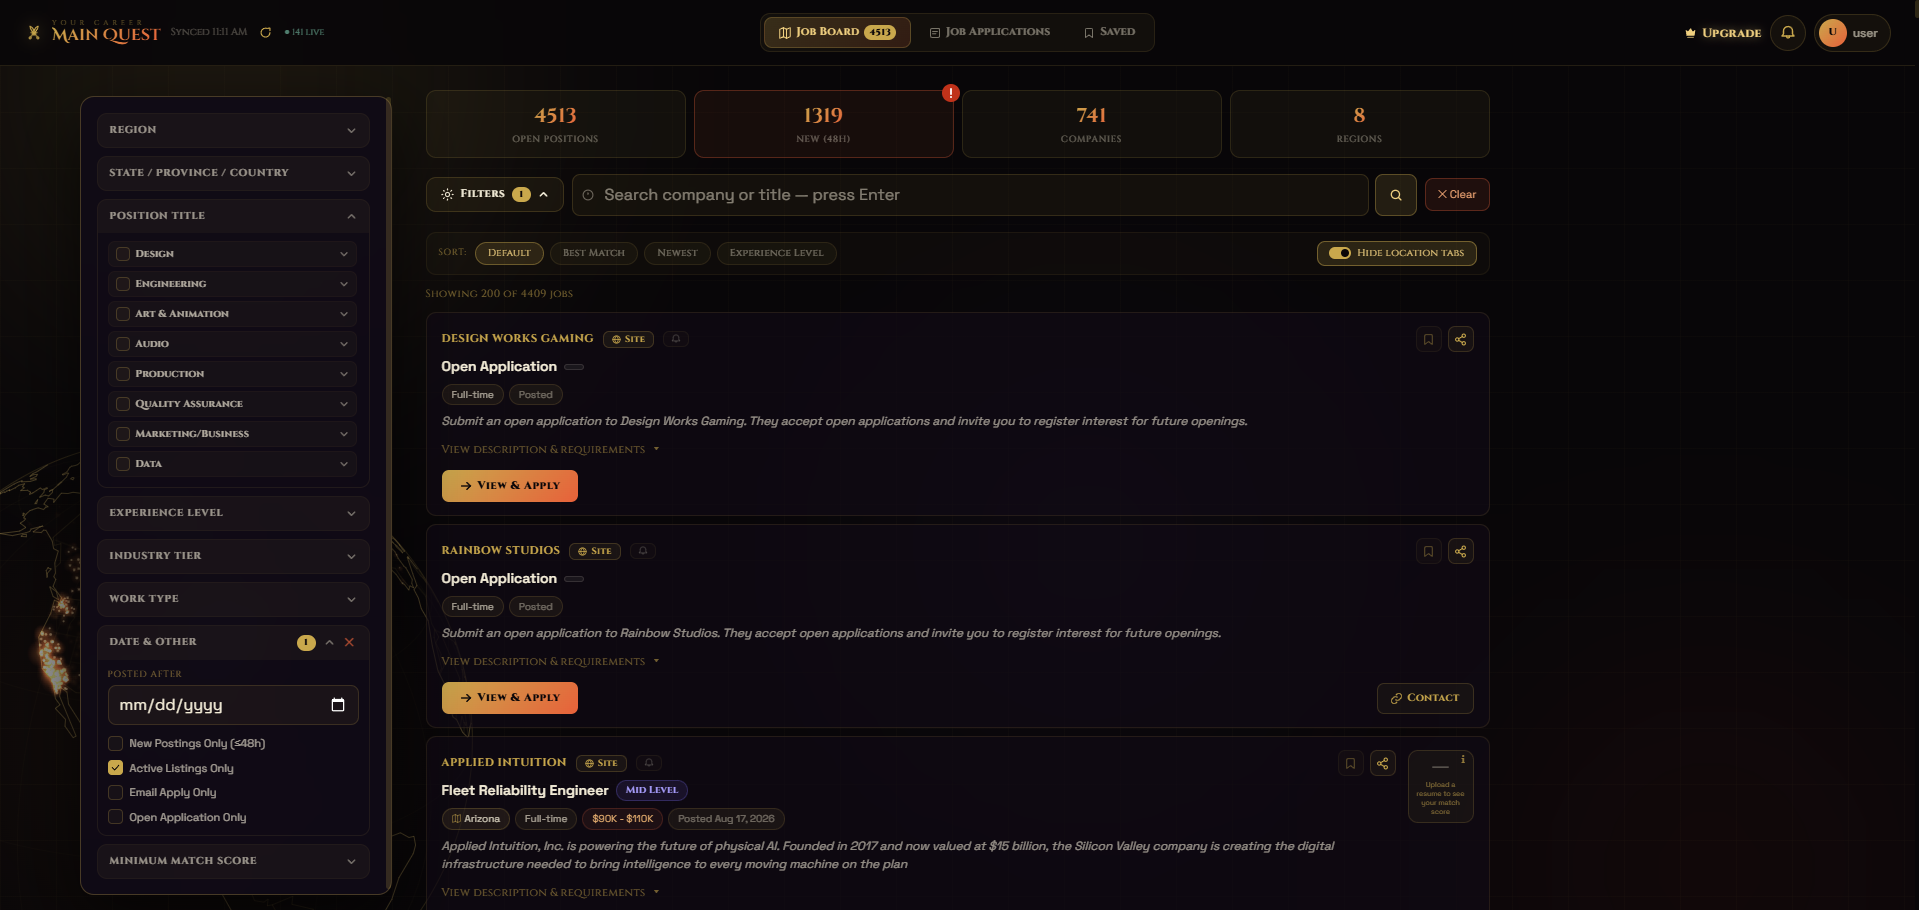
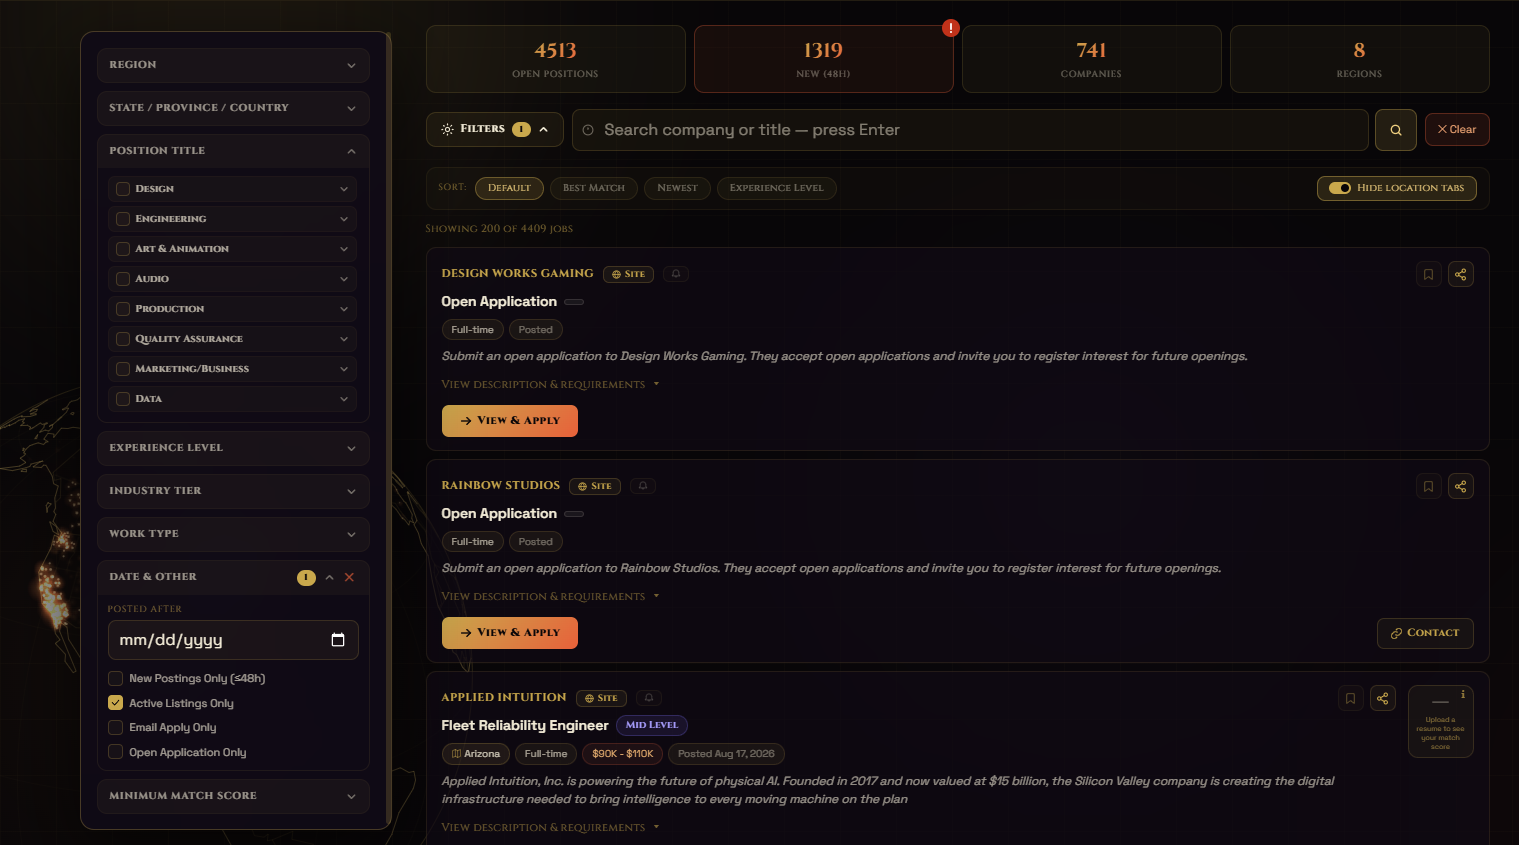
Showcase: centerline divider layout, click-to-zoom lightbox, new subfeatures + descriptions

diff --git a/pages/index.js b/pages/index.js
@@ -2665,47 +2665,54 @@ function PricingInfo({compact,onDismiss}){
 
 // ── AUTH ──────────────────────────────────────────────────────────────────────
 // ── LANDING FEATURE SHOWCASE ─────
-// Fading screenshot carousel: auto-advances, manual arrows, dot indicators,
-// and jumps to a subfeature’s image when you hover its card.
 function ShotCarousel({ shots, forcedIdx, sectionTitle }){
   const [idx,setIdx]=useState(0);
   const [paused,setPaused]=useState(false);
+  const [zoom,setZoom]=useState(false);
   const has=shots&&shots.length>0;
   useEffect(()=>{
-    if(!has||paused||shots.length<2) return;
+    if(!has||paused||zoom||shots.length<2) return;
     const tmr=setInterval(()=>setIdx(i=>(i+1)%shots.length),4500);
     return ()=>clearInterval(tmr);
-  },[has,paused,shots]);
+  },[has,paused,zoom,shots]);
   useEffect(()=>{ if(forcedIdx!=null&&forcedIdx>=0) setIdx(forcedIdx); },[forcedIdx]);
+  useEffect(()=>{ if(typeof document==="undefined")return; if(zoom){ const pv=document.body.style.overflow; document.body.style.overflow="hidden"; return ()=>{document.body.style.overflow=pv;}; } },[zoom]);
+  const go=(d)=>setIdx(i=>(i+d+shots.length)%shots.length);
   if(!has){
     return <div style={{width:"100%",height:"100%",minHeight:320,borderRadius:14,border:"1px dashed rgba(201,168,76,.35)",background:"rgba(201,168,76,.03)",display:"flex",alignItems:"center",justifyContent:"center",flexDirection:"column",gap:8}}>
       <span style={{fontFamily:"'Cinzel',serif",fontSize:13,color:"rgba(201,168,76,.6)"}}>Screenshot</span>
       <span style={{fontSize:11,color:"rgba(244,237,216,.3)"}}>{sectionTitle}</span>
     </div>;
   }
-  const go=(d)=>setIdx(i=>(i+d+shots.length)%shots.length);
-  return <div onMouseEnter={()=>setPaused(true)} onMouseLeave={()=>setPaused(false)} style={{position:"relative",width:"100%",height:"100%",minHeight:320,borderRadius:14,overflow:"hidden",border:"1px solid rgba(201,168,76,.25)",background:"#0a0710",boxShadow:"0 16px 50px rgba(0,0,0,.45)"}}>
+  const dot=(k,fixed)=>(<span key={k} onClick={e=>{e.stopPropagation();setIdx(k);}} style={{width:8,height:8,borderRadius:"50%",background:k===idx?"#f0d080":"rgba(244,237,216,.35)",cursor:"pointer",transition:"background .3s"}}/>);
+  const arrowStyle=(side)=>({position:"absolute",[side]:8,top:"50%",transform:"translateY(-50%)",zIndex:3,width:34,height:34,borderRadius:"50%",background:"rgba(10,7,8,.4)",border:"1px solid rgba(201,168,76,.3)",color:"#f0d080",fontSize:20,lineHeight:1,cursor:"pointer",display:"flex",alignItems:"center",justifyContent:"center",backdropFilter:"blur(3px)"});
+  return <><div onMouseEnter={()=>setPaused(true)} onMouseLeave={()=>setPaused(false)} onClick={()=>setZoom(true)} style={{position:"relative",width:"100%",height:"100%",minHeight:320,borderRadius:14,overflow:"hidden",border:"1px solid rgba(201,168,76,.25)",background:"#0a0710",boxShadow:"0 16px 50px rgba(0,0,0,.45)",cursor:"zoom-in"}}>
     <div style={{position:"absolute",inset:0,display:"flex",alignItems:"center",justifyContent:"center",zIndex:0}}><span style={{fontFamily:"'Cinzel',serif",fontSize:12,color:"rgba(201,168,76,.35)"}}>{sectionTitle} · {idx+1}</span></div>
-    {shots.map((src,k)=>(
-      <img key={k} src={src} alt="" onError={e=>{e.currentTarget.style.opacity=0;}} style={{position:"absolute",inset:0,width:"100%",height:"100%",objectFit:"cover",opacity:k===idx?1:0,transition:"opacity .7s ease",zIndex:1}}/>
-    ))}
+    {shots.map((src,k)=>(<img key={k} src={src} alt="" onError={e=>{e.currentTarget.style.opacity=0;}} style={{position:"absolute",inset:0,width:"100%",height:"100%",objectFit:"cover",opacity:k===idx?1:0,transition:"opacity .7s ease",zIndex:1}}/>))}
     {shots.length>1&&<>
-      <button onClick={()=>go(-1)} aria-label="Previous" style={{position:"absolute",left:8,top:"50%",transform:"translateY(-50%)",zIndex:3,width:34,height:34,borderRadius:"50%",background:"rgba(10,7,8,.4)",border:"1px solid rgba(201,168,76,.3)",color:"#f0d080",fontSize:20,lineHeight:1,cursor:"pointer",display:"flex",alignItems:"center",justifyContent:"center",backdropFilter:"blur(3px)"}}>‹</button>
-      <button onClick={()=>go(1)} aria-label="Next" style={{position:"absolute",right:8,top:"50%",transform:"translateY(-50%)",zIndex:3,width:34,height:34,borderRadius:"50%",background:"rgba(10,7,8,.4)",border:"1px solid rgba(201,168,76,.3)",color:"#f0d080",fontSize:20,lineHeight:1,cursor:"pointer",display:"flex",alignItems:"center",justifyContent:"center",backdropFilter:"blur(3px)"}}>›</button>
-      <div style={{position:"absolute",bottom:10,left:0,right:0,display:"flex",justifyContent:"center",gap:7,zIndex:3}}>
-        {shots.map((_,k)=>(<span key={k} onClick={()=>setIdx(k)} style={{width:7,height:7,borderRadius:"50%",background:k===idx?"#f0d080":"rgba(244,237,216,.35)",cursor:"pointer",transition:"background .3s"}}/>))}
-      </div>
+      <button onClick={e=>{e.stopPropagation();go(-1);}} aria-label="Previous" style={arrowStyle("left")}>‹</button>
+      <button onClick={e=>{e.stopPropagation();go(1);}} aria-label="Next" style={arrowStyle("right")}>›</button>
+      <div style={{position:"absolute",bottom:10,left:0,right:0,display:"flex",justifyContent:"center",gap:7,zIndex:3}}>{shots.map((_,k)=>dot(k))}</div>
     </>}
-  </div>;
+  </div>
+  {zoom&&<div onClick={()=>setZoom(false)} style={{position:"fixed",inset:0,zIndex:500,background:"rgba(0,0,0,.92)",backdropFilter:"blur(4px)",display:"flex",alignItems:"center",justifyContent:"center"}}>
+    <img src={shots[idx]} alt="" onClick={e=>e.stopPropagation()} style={{maxWidth:"92vw",maxHeight:"86vh",objectFit:"contain",borderRadius:8,boxShadow:"0 20px 80px rgba(0,0,0,.7)"}}/>
+    <button onClick={()=>setZoom(false)} title="Close" style={{position:"fixed",top:18,right:22,zIndex:3,width:40,height:40,borderRadius:"50%",background:"rgba(20,14,10,.7)",border:"1px solid rgba(201,168,76,.4)",color:"#f0d080",fontSize:18,cursor:"pointer",display:"flex",alignItems:"center",justifyContent:"center"}}>✕</button>
+    {shots.length>1&&<>
+      <button onClick={e=>{e.stopPropagation();go(-1);}} style={{position:"fixed",left:18,top:"50%",transform:"translateY(-50%)",zIndex:3,width:46,height:46,borderRadius:"50%",background:"rgba(20,14,10,.7)",border:"1px solid rgba(201,168,76,.4)",color:"#f0d080",fontSize:26,cursor:"pointer",display:"flex",alignItems:"center",justifyContent:"center"}}>‹</button>
+      <button onClick={e=>{e.stopPropagation();go(1);}} style={{position:"fixed",right:18,top:"50%",transform:"translateY(-50%)",zIndex:3,width:46,height:46,borderRadius:"50%",background:"rgba(20,14,10,.7)",border:"1px solid rgba(201,168,76,.4)",color:"#f0d080",fontSize:26,cursor:"pointer",display:"flex",alignItems:"center",justifyContent:"center"}}>›</button>
+      <div style={{position:"fixed",bottom:22,left:0,right:0,display:"flex",justifyContent:"center",gap:8,zIndex:3}} onClick={e=>e.stopPropagation()}>{shots.map((_,k)=>dot(k,true))}</div>
+    </>}
+  </div>}
+  </>;
 }
 
-function ShowcaseSection({ s, i, reverse, c0, c1 }){
+function ShowcaseSection({ s, i, c0, c1 }){
   const [forced,setForced]=useState(null);
   return <section id={`feat-${s.slug}`} className="mq-feat-sec" style={{position:"relative",minHeight:"100vh",display:"flex",alignItems:"center",justifyContent:"center",padding:"64px 24px",background:`linear-gradient(180deg, ${c0}, ${c1})`,boxSizing:"border-box",fontFamily:"'Space Grotesk',sans-serif"}}>
     <div style={{position:"absolute",inset:0,backgroundImage:"linear-gradient(rgba(201,168,76,.03) 1px,transparent 1px),linear-gradient(90deg,rgba(201,168,76,.03) 1px,transparent 1px)",backgroundSize:"56px 56px",pointerEvents:"none",zIndex:0}}/>
-    {i>0 && <div style={{position:"absolute",top:0,left:"50%",transform:"translate(-50%,-50%)",display:"flex",flexDirection:"column",alignItems:"center",pointerEvents:"none",zIndex:2}}><div style={{width:1,height:48,background:"linear-gradient(to bottom, transparent, rgba(201,168,76,.55))"}}/><span style={{color:"#c9a84c",fontSize:15,lineHeight:1,margin:"5px 0",textShadow:"0 0 8px rgba(201,168,76,.6)"}}>✦</span><div style={{width:1,height:48,background:"linear-gradient(to bottom, rgba(201,168,76,.55), transparent)"}}/></div>}
-    <div style={{maxWidth:1440,width:"100%",display:"flex",flexDirection:reverse?"row-reverse":"row",gap:40,alignItems:"stretch",flexWrap:"wrap",position:"relative",zIndex:1}}>
-      <div style={{flex:"1 1 42%",minWidth:300,display:"flex",flexDirection:"column",justifyContent:"center"}}>
+    <div style={{maxWidth:1440,width:"100%",display:"flex",flexDirection:"row",gap:0,alignItems:"stretch",flexWrap:"wrap",justifyContent:"center",position:"relative",zIndex:1}}>
+      <div style={{flex:"1 1 40%",minWidth:300,display:"flex",flexDirection:"column",justifyContent:"center",padding:"0 34px"}}>
         <div style={{fontFamily:"'Cinzel',serif",fontSize:11,letterSpacing:3,color:"rgba(201,168,76,.7)",textTransform:"uppercase",marginBottom:12}}>{`0${i+1}`} — Feature</div>
         <h2 style={{fontFamily:"'Cinzel Decorative',serif",fontSize:38,fontWeight:700,color:"#f0d080",lineHeight:1.15,marginBottom:16}}>{s.title}</h2>
         <p style={{fontSize:16,color:"rgba(244,237,216,.6)",lineHeight:1.7,marginBottom:28}}>{s.tagline}</p>
@@ -2721,7 +2728,12 @@ function ShowcaseSection({ s, i, reverse, c0, c1 }){
           ))}
         </div>
       </div>
-      <div style={{flex:"1 1 50%",minWidth:300,display:"flex"}}>
+      <div className="mq-vdiv" style={{alignSelf:"stretch",display:"flex",flexDirection:"column",alignItems:"center",justifyContent:"center",flex:"0 0 auto",padding:"18px 0"}}>
+        <div style={{flex:1,width:1,background:"linear-gradient(to bottom, transparent, rgba(201,168,76,.4))"}}/>
+        <span style={{color:"#c9a84c",fontSize:16,margin:"9px 0",textShadow:"0 0 9px rgba(201,168,76,.6)"}}>✦</span>
+        <div style={{flex:1,width:1,background:"linear-gradient(to bottom, rgba(201,168,76,.4), transparent)"}}/>
+      </div>
+      <div style={{flex:"1 1 40%",minWidth:300,display:"flex",padding:"0 34px"}}>
         <ShotCarousel shots={s.shots} forcedIdx={forced} sectionTitle={s.title}/>
       </div>
     </div>
@@ -2744,17 +2756,35 @@ function FeatureShowcase(){
        {label:"Live Feeds",shot:3,desc:"The jobs are as new as you are active. Every time you open the board, Main Quest re-scans the source feeds for brand-new postings — so what you see is always live, never a stale, days-old cache."},
        {label:"Save & Share Jobs",shot:4,desc:"Bookmark any posting to your saved list to revisit later, and share a role with a single link — perfect for sending an opening to a friend or building out your own shortlist."},
      ]},
-    {slug:"application-tracking",title:"Application Tracking",tagline:"[ One-line hook for Application Tracking ]",shots:[],subs:[{label:"Applied / Interview / Offers / Denied",desc:"[ description ]"},{label:"Dates + one-click access",desc:"[ description ]"},{label:"[ sub-feature ]",desc:"[ description ]"}]},
-    {slug:"company-alerts",title:"Company Alerts",tagline:"[ One-line hook for Company Alerts ]",shots:[],subs:[{label:"Per-company notifications",desc:"[ description ]"},{label:"Email digests",desc:"[ description ]"},{label:"[ sub-feature ]",desc:"[ description ]"}]},
-    {slug:"job-match-score-breakdown",title:"Job Match Score Breakdown",tagline:"[ Emphasize the BREAKDOWN: see exactly WHY a posting fits ]",shots:[],subs:[{label:"Per-factor breakdown",desc:"[ description ]"},{label:"What is boosting vs. dragging the score",desc:"[ description ]"},{label:"How to close the gaps",desc:"[ description ]"}]},
-    {slug:"ai-resume-tailor",title:"AI Resume Tailor",tagline:"[ One-line hook for the Resume Tailor ]",shots:[],subs:[{label:"Keyword matching",desc:"[ description ]"},{label:"Surgical bullet edits",desc:"[ description ]"},{label:"Match score before / after",desc:"[ description ]"}]},
-    {slug:"email-templates",title:"Email Templates",tagline:"[ One-line hook for Email Templates ]",shots:[],subs:[{label:"Filler: Company Name",desc:"[ description ]"},{label:"Filler: Position",desc:"[ description ]"},{label:"Filler: AI Search",desc:"[ description ]"}]},
+    {slug:"application-tracking",title:"Application Tracking",tagline:"[ One-line hook for Application Tracking ]",shots:[],subs:[
+      {label:"Company-Specific Interview Prep (Premium+)",desc:"Generate interview prep tuned to the exact studio and role you’re applying to — likely questions, what the company values, and talking points pulled from the posting and the studio itself."},
+      {label:"Application Status",desc:"Track every application through its stages — Applied, Interview, Offer, and Denied — so you always know where each one stands at a glance."},
+    ]},
+    {slug:"company-alerts",title:"Company Alerts",tagline:"[ One-line hook for Company Alerts ]",shots:[],subs:[
+      {label:"Job-Specific Notifications (Premium)",desc:"Set your criteria once and get pinged the moment a brand-new posting matches — by role, location, seniority, and more — so you’re among the first to apply."},
+      {label:"Company Bell",desc:"Follow any studio with a tap of the bell and get notified whenever it posts new openings, no matter what they are."},
+      {label:"Email Digest",desc:"Prefer it in your inbox? Get a periodic email rounding up the newest matching roles so you never have to check manually."},
+    ]},
+    {slug:"job-match-score-breakdown",title:"Job Match Score Breakdown",tagline:"[ Emphasize the BREAKDOWN: see exactly WHY a posting fits ]",shots:[],subs:[
+      {label:"Factor Breakdown",desc:"See your 0–10 match split by factor — skills, experience level, seniority, location, and keyword overlap — so the score is never a black box."},
+      {label:"Potential Improvements",desc:"Get concrete, specific suggestions on what to add or adjust in your profile to raise your match on a given role."},
+    ]},
+    {slug:"ai-resume-tailor",title:"AI Resume Tailoring",tagline:"[ One-line hook for AI Resume Tailoring ]",shots:[],subs:[
+      {label:"Keyword Matching",desc:"Surfaces the exact skills and terms a posting is looking for, so you can speak the role’s language."},
+      {label:"Surgical Editing",desc:"Rewrites and sharpens your bullet points to fit the role while preserving your real experience, voice, and original formatting."},
+      {label:"ATS Clearing",desc:"Structures your resume so it parses cleanly through applicant-tracking filters — no more silent rejections from a machine."},
+      {label:"Updated Match Score",desc:"Shows your match score before and after tailoring, so you can see exactly how much stronger a fit you’ve become."},
+    ]},
+    {slug:"email-templates",title:"Email-Apply Templates",tagline:"[ One-line hook for Email-Apply Templates ]",shots:[],subs:[
+      {label:"AI Generate Template (Premium+)",desc:"Let AI draft a polished, professional application email from scratch that you can reuse across every email-apply role."},
+      {label:"One-Click Autofill",desc:"Company name, position, and your links drop into the draft automatically for each job — no copy-pasting, no typos."},
+      {label:"Customizable",desc:"Edit, tweak, and save your own template exactly how you want it, with placeholders you control."},
+    ]},
   ];
   const SHADE=["#080608","#0b0812","#080a0e","#0c0711","#090610","#0a0812","#080608"];
-  const REVERSE=[false,true,false,true,true,false];
   return <>
-    <style>{`@media(min-width:768px){html{scroll-snap-type:y proximity;scroll-behavior:smooth}.mq-feat-sec{scroll-snap-align:start}.mq-footer{scroll-snap-align:end}}`}</style>
-    {SECTIONS.map((s,i)=>(<ShowcaseSection key={s.slug} s={s} i={i} reverse={REVERSE[i]} c0={SHADE[i]} c1={SHADE[i+1]}/>))}
+    <style>{`@media(min-width:768px){html{scroll-snap-type:y proximity;scroll-behavior:smooth}.mq-feat-sec{scroll-snap-align:start}.mq-footer{scroll-snap-align:end}}@media(max-width:880px){.mq-vdiv{display:none!important}}`}</style>
+    {SECTIONS.map((s,i)=>(<ShowcaseSection key={s.slug} s={s} i={i} c0={SHADE[i]} c1={SHADE[i+1]}/>))}
     <footer className="mq-footer" style={{borderTop:"1px solid rgba(201,168,76,.12)",padding:"20px 24px",display:"flex",flexWrap:"wrap",alignItems:"center",justifyContent:"space-between",gap:12,background:"rgba(8,6,8,.85)",position:"relative",zIndex:1}}>
       <div style={{fontSize:11,color:"rgba(244,237,216,.35)",lineHeight:1.5,maxWidth:560}}>
         Main Quest aggregates publicly available job listings and is not affiliated with any studio listed. Job data may be inaccurate — always verify on the employer’s official site. Trademarks belong to their respective owners.
